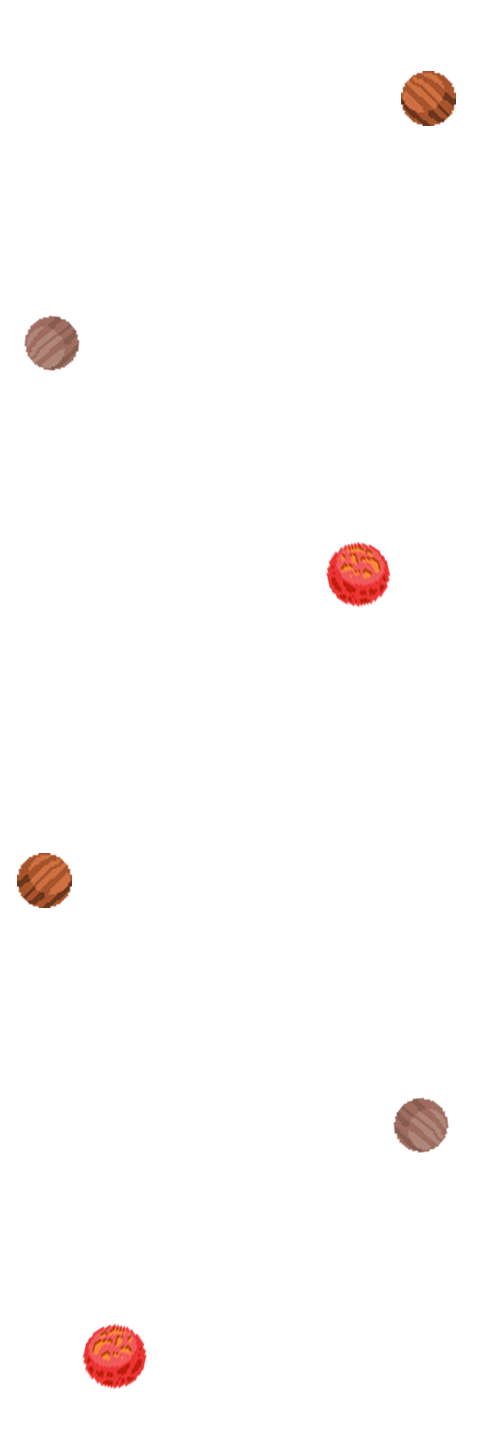
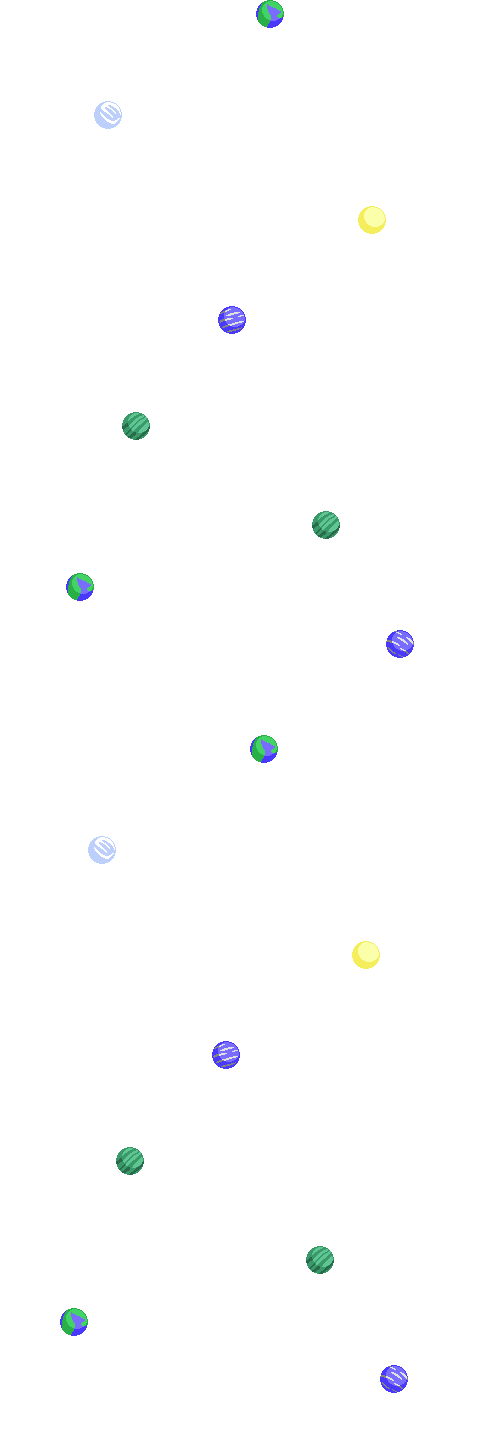
added 1 background layer

diff --git a/canvas.js b/canvas.js
@@ -14,7 +14,8 @@ export const words = [
     'MARKOS', 'JAVASCRIPT', 'FUNCTION', 'HTML',
     'CASCATING', 'MARKUP', 'LANGUAGE', 'CODE',
     'HYPER', 'REACT', 'VANILLA', 'TYPE', 'SCRIPT',
-    'DIV', 'ROUTER', 'AXIOS', 'BROWSER'
+    'DIV', 'ROUTER', 'AXIOS', 'BROWSER', 'TYPESCRIPT',
+    'STYLED', 'DEVELOPER', 'API', 'PROGRESSIVE'
 ]
 
 
@@ -29,32 +30,55 @@ export const shotAudios = []
 // background music
 const bgMusic = new Audio('./folder/sounds/bgmusic.mp3')
 
-
+// pauses the game
+const playBtn = new Image()
+playBtn.src = './folder/images/icon-play.png'
+export let pause = true
+canvas.addEventListener('click', (e) => {
+    pause = !pause
+})
+document.addEventListener('keydown', (e) => {
+    if(e.key == 'Enter'){
+        pause = !pause
+    }
+})
 
 function game(){
-    // restart music if isn`t playing
-    if(!(bgMusic.play())){
+    if(pause){
+        bgMusic.pause()
+        gameLayers.forEach((layer) => {
+            layer.draw()
+        })
+        c.font = '90px Trebuchet MS'
+        c.fillStyle = 'white'
+        c.textAlign = 'center'
+        c.fillText('TYPERS', canvas.width/2, canvas.height/2)
+        player.draw()
+    } else {
+        // restart music if isn`t playing
+
         bgMusic.play()
+
+        // acess and draw each BG layer
+        gameLayers.forEach((layer) => {
+            layer.update()
+            layer.draw()
+        })
+    
+        // draw enemy and player
+        enemy.draw()
+        player.draw()
+        player.fire()
+    
+        //draw each projectil on screen
+        projectils.forEach((projectil) => {
+            projectil.drawProjectil()
+        })
+        // play each audio
+        shotAudios.forEach((shot) => {
+            shot.play()
+        })
     }
-    // acess and draw each BG layer
-    gameLayers.forEach((layer) => {
-        layer.update()
-        layer.draw()
-    })
-
-    // draw enemy and player
-    enemy.draw()
-    player.draw()
-    player.fire()
-
-    //draw each projectil on screen
-    projectils.forEach((projectil) => {
-        projectil.drawProjectil()
-    })
-    // play each audio
-    shotAudios.forEach((shot) => {
-        shot.play()
-    })
 }
 
 

diff --git a/index.html b/index.html
@@ -5,10 +5,15 @@
     <meta http-equiv="X-UA-Compatible" content="IE=edge">
     <meta name="viewport" content="width=device-width, initial-scale=1.0">
     <link rel="stylesheet" href="style.css">
+    <link rel="preconnect" href="https://fonts.googleapis.com">
+    <link rel="preconnect" href="https://fonts.gstatic.com" crossorigin>
+    <link href="https://fonts.googleapis.com/css2?family=Montserrat:ital,wght@0,100;0,200;0,300;0,400;0,500;0,600;0,700;0,800;0,900;1,100;1,200;1,300;1,400;1,500;1,600;1,700;1,800;1,900&display=swap" rel="stylesheet">
     <title>TyperSpace</title>
 </head>
 <body>
-    <h1>Word Invaders</h1>
+    <div>
+        <h1>click or press enter to start</h1>
+    </div>
     <canvas></canvas>
     <script type="module" src="background.js"></script>
     <script type="module" src="player.js"></script>

diff --git a/background.js b/background.js
@@ -8,6 +8,8 @@ const backgroundLayer2 = new Image()
 backgroundLayer2.src = './folder/images/background2.png'
 const backgroundLayer3 = new Image()
 backgroundLayer3.src = './folder/images/background3.png'
+const backgroundLayer4 = new Image()
+backgroundLayer4.src = './folder/images/background4.png'
 
 class Layer {
     constructor(image, speedModifier){
@@ -39,6 +41,7 @@ const layer0 = new Layer(backgroundLayer0, 0.2)
 const layer1 = new Layer(backgroundLayer1, 0.4)
 const layer2 = new Layer(backgroundLayer2, 0.6)
 const layer3 = new Layer(backgroundLayer3, 0.8)
+const layer4 = new Layer(backgroundLayer4, 1)
 
 
-export const gameLayers = [layer0, layer1, layer2, layer3]
+export const gameLayers = [layer0, layer1, layer2, layer3, layer4]

diff --git a/player.js b/player.js
@@ -1,4 +1,4 @@
-import { canvas, c, enemy } from "./canvas.js"
+import { canvas, c, enemy, pause } from "./canvas.js"
 
 const player = new Image()
 
@@ -35,7 +35,6 @@ export default class Player {
         this.fire = () => {
             document.addEventListener('keydown', (e) => {
                 enemy.removeLetter(e)
-                this.getWord()
             })
         }
 
